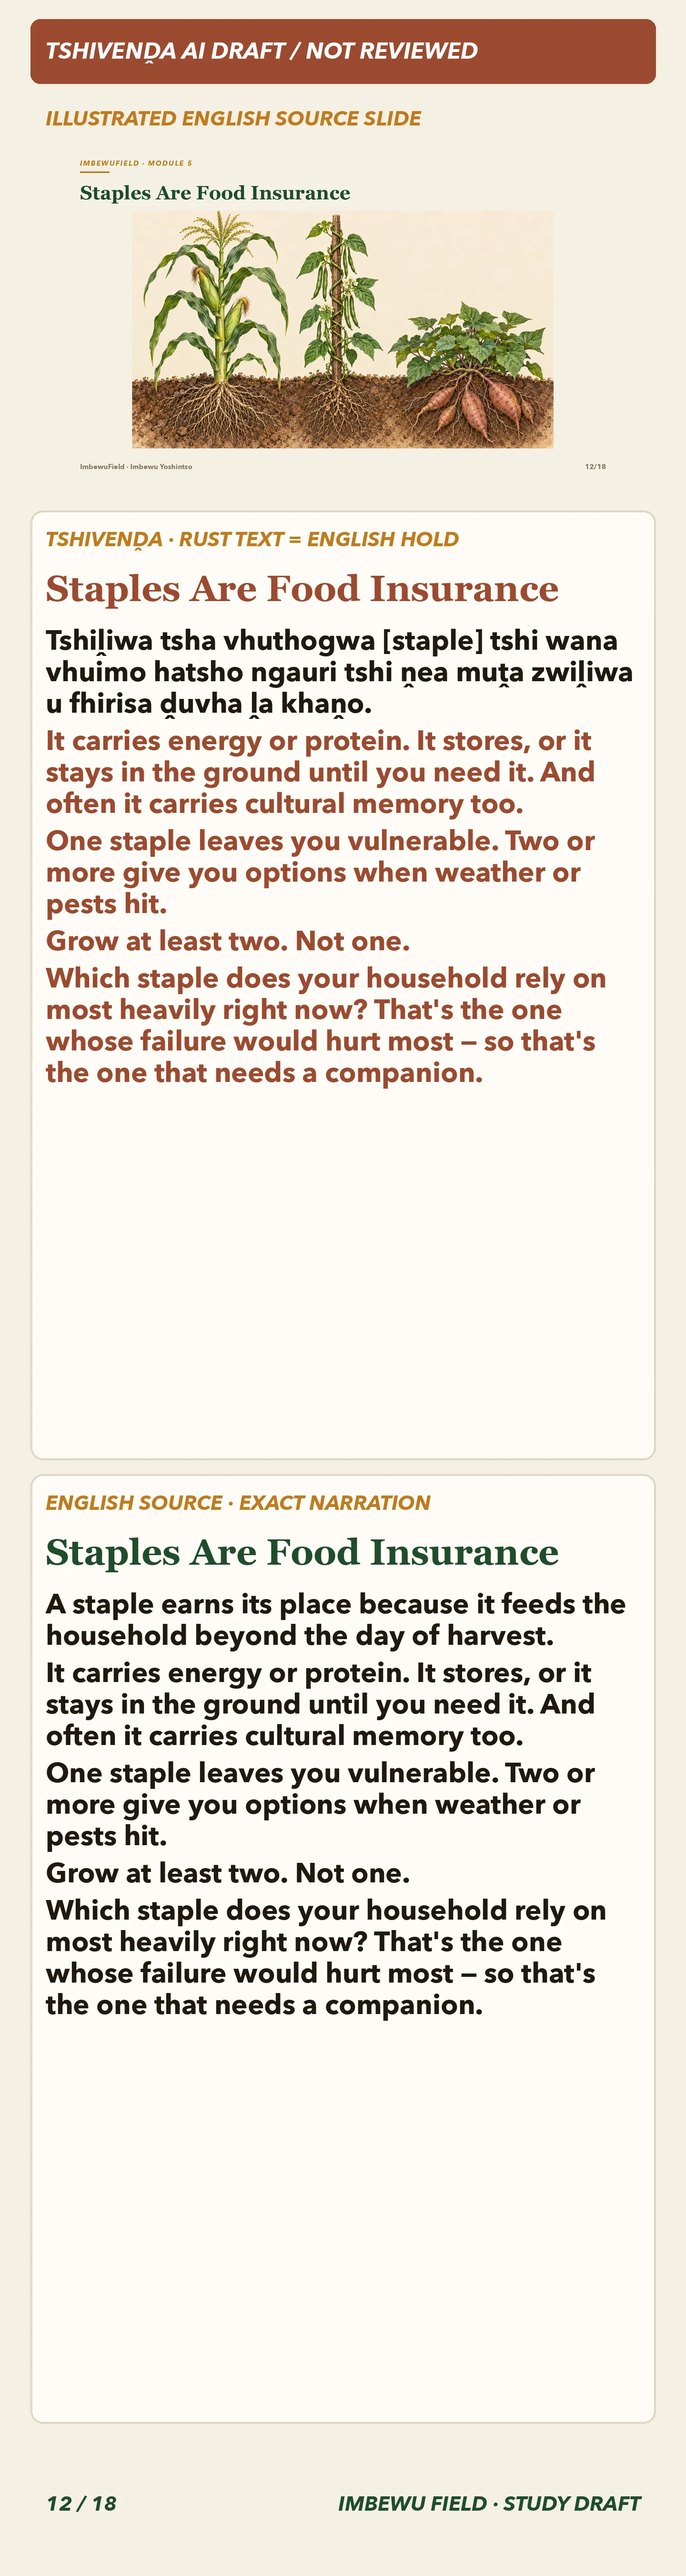
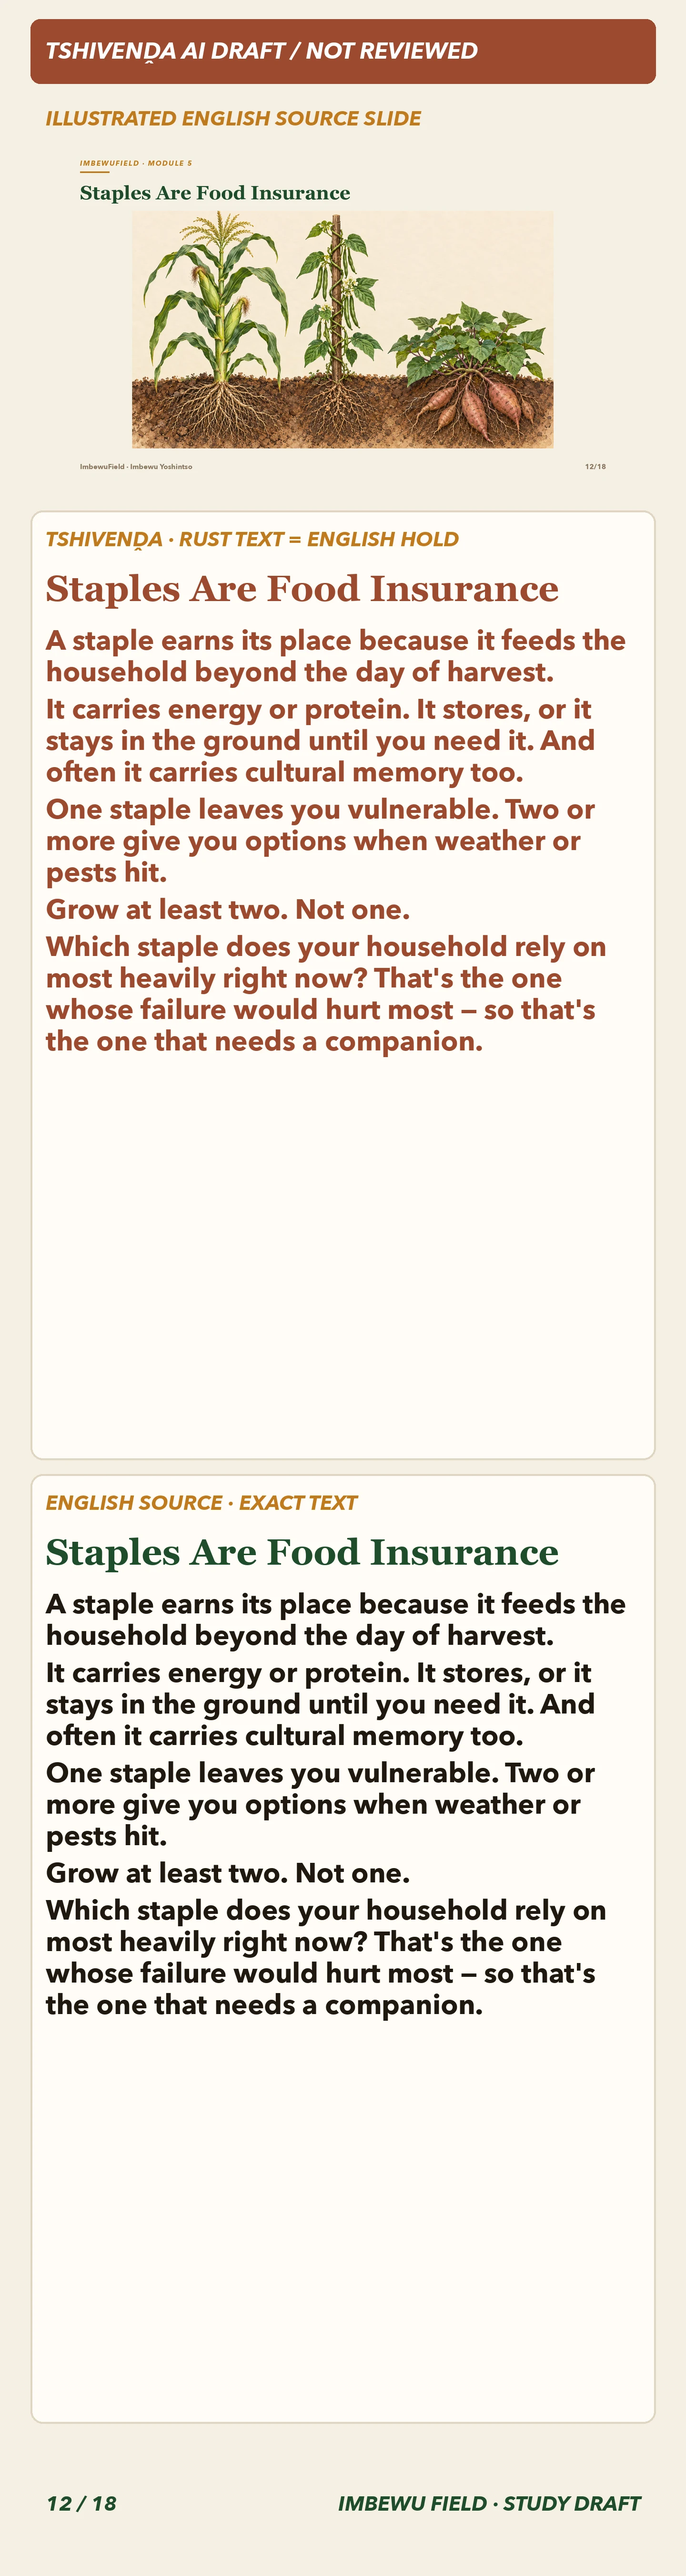
Add silent Tshivenda vegetables paired review deck

Changed region(s): [[0.0625, 0.2178, 0.9062, 0.4356], [0.4688, 0.56, 0.625, 0.5911]]

diff --git a/docs/narration-reviews/vegetables-staples-ve-paired-slides-2026-09-28.md b/docs/narration-reviews/vegetables-staples-ve-paired-slides-2026-09-28.md
@@ -1,0 +1,53 @@
+# Tshivenda Vegetables and Staple Crops paired still deck — 28 September 2026
+
+**Status: unreviewed machine draft.** This silent 18-frame deck is for fluent
+language and local farming review. Every frame shows the existing illustrated
+English slide, the Tshivenda draft or exact-English hold panel, and the exact
+English narration source. It does not claim fluent-language approval, learner
+comprehension, or local farming approval. No narration was created or registered.
+
+The source is `docs/narration/vegetables-staples.ve.paired-draft.json`, checked
+against `docs/narration/vegetables-staples.en.md`. It contains one existing
+Tshivenda draft paragraph: slide 14's second sentence, preserved byte-for-byte
+and visibly marked unreviewed. Slide 12's opening sentence is an exact English
+hold. All other narration text, including every operational crop instruction,
+also stays an exact English hold. No new translation was added.
+
+## Safety and scope
+
+The source pairing contains 18 records, one draft body paragraph, 116 held
+body paragraphs, and 18 held headings. Crop-specific or operational guidance
+remains exact English, including crop selection, maize storage and seed
+isolation, beans and cowpeas, sweet-potato water conditions, amadumbe's wet
+ground use, bed dimensions, sowing and spacing, pest response, treatment labels,
+and field actions. This deck adds no crop species, measurement, timing, or
+farming instruction. English holds remain visible alongside the English source.
+
+## Source and render validation
+
+The source-pair validator passed all 18 slides and confirmed the English
+headings and paragraph arrays match the authored source in order. It also
+checks the target paragraph counts and requires each target entry to be either
+a non-empty draft or an explicit English hold.
+
+```sh
+node scripts/make-lesson-slides.mjs vegetables-staples ve /tmp/vegetables-staples-ve-paired --paired-draft docs/narration/vegetables-staples.ve.paired-draft.json --validate-only
+```
+
+The deterministic slide renderer generated 18 PNGs at 1440 × 5400 from the
+existing English artwork. Those were encoded as WebP frames under
+`public/course-decks/vegetables-staples/ve/` at quality 88. No English artwork,
+source wording, or target wording was edited.
+
+## Visual check
+
+I inspected the full contact sheet and the 390 px samples for slides 1, 12, 14,
+and 18 under `docs/media/vegetables-staples/ve-paired-review/`. The unreviewed
+banner, English artwork, target draft/hold colours, exact English source panel,
+and frame count are visible. I saw no clipping in those samples; the remaining
+slides were checked in the contact sheet, not individually at phone width.
+
+The frame hashes, dimensions, source hashes, contact sheet, and sample paths
+are recorded in `docs/media/vegetables-staples/ve-paired-review/verification.json`.
+
+The deck is silent. No Tshivenda audio asset or audio manifest entry was added.
